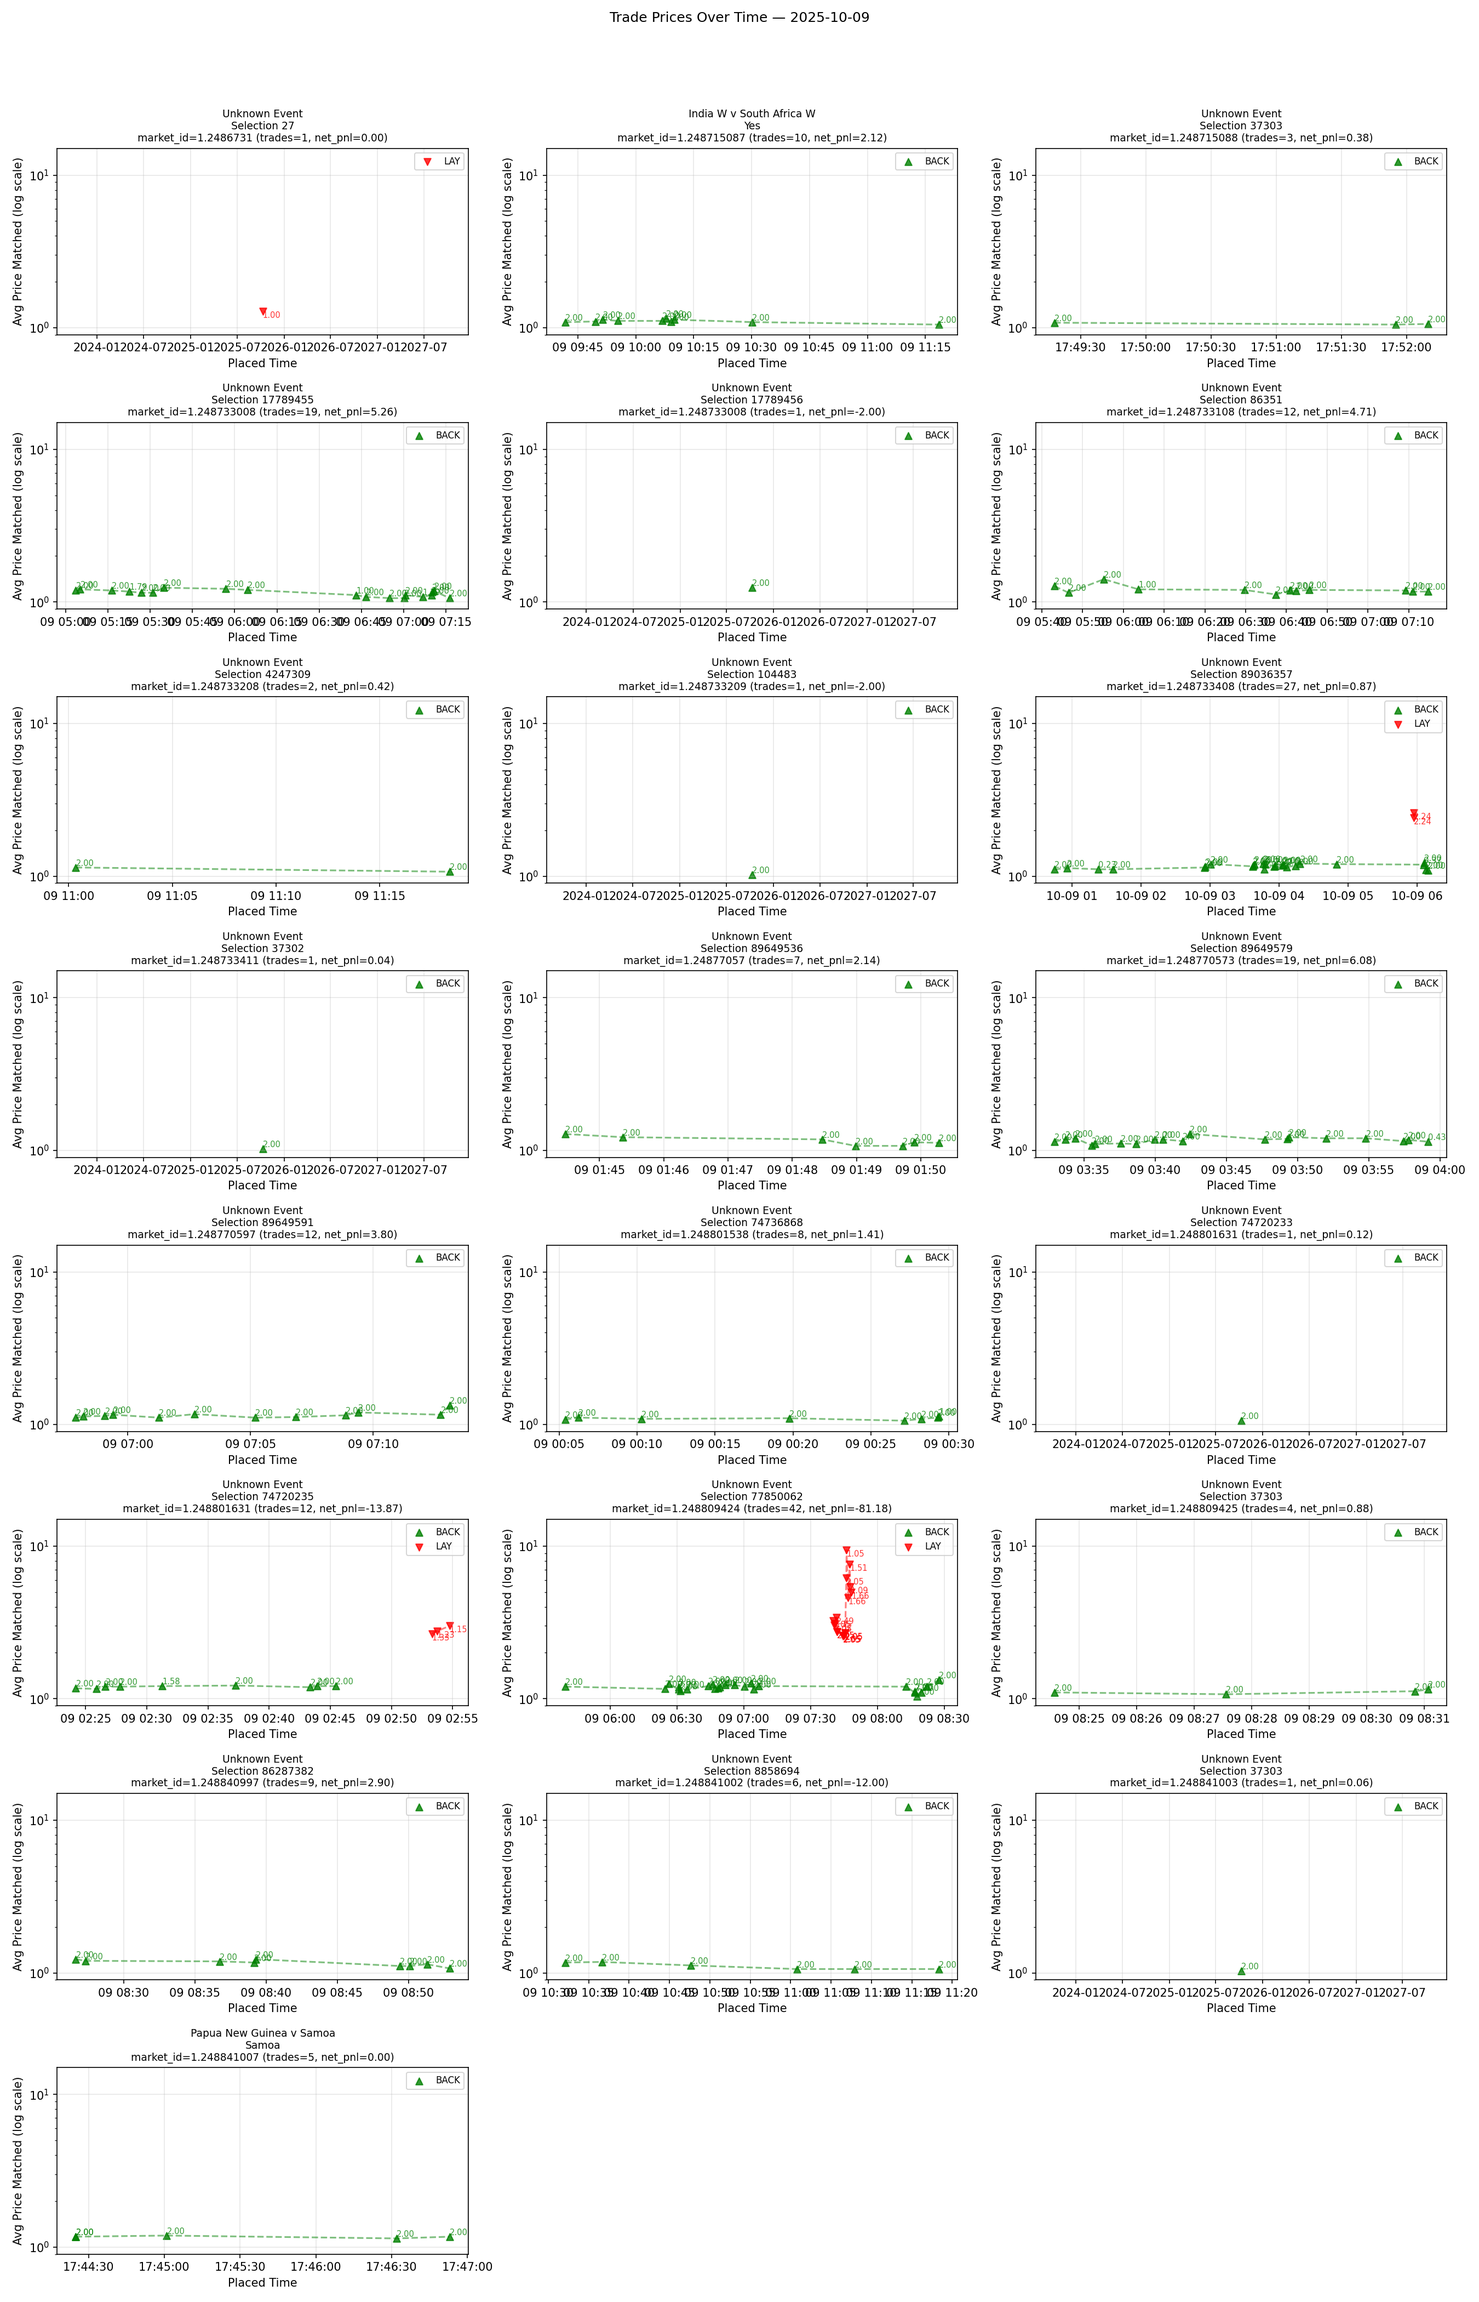
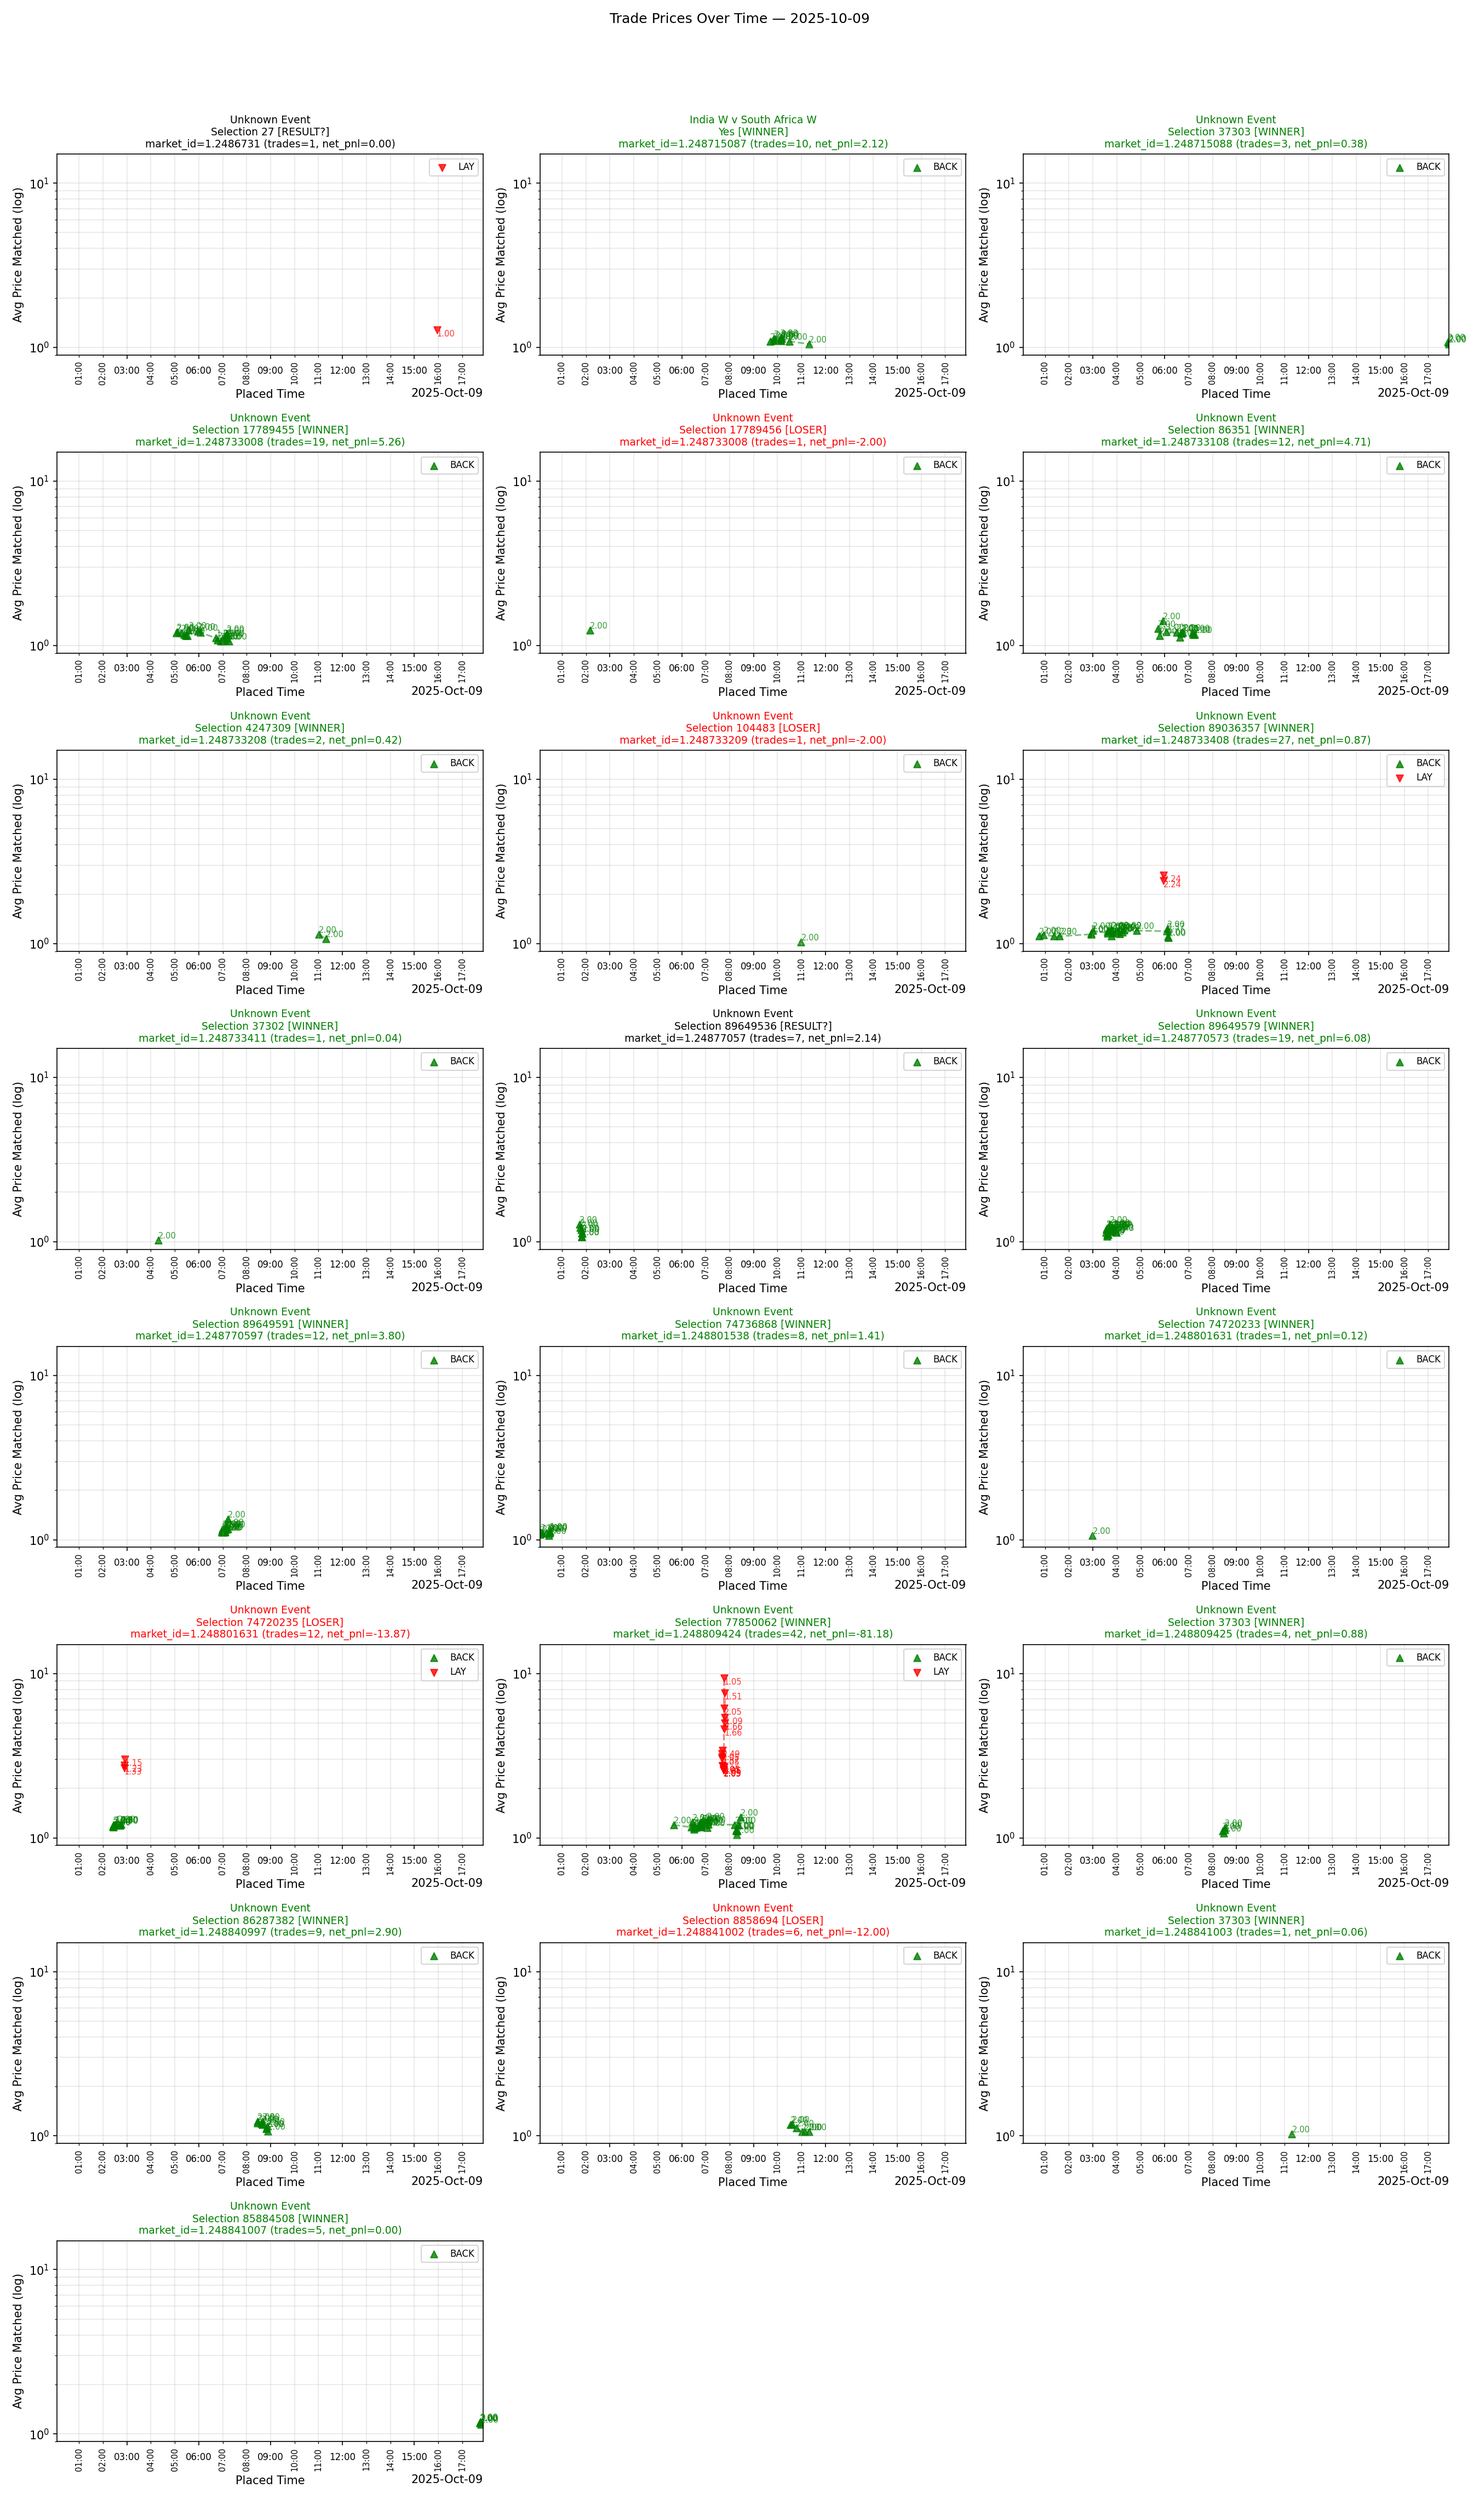
add

diff --git a/jobs/eod_gen_trade_charts.py b/jobs/eod_gen_trade_charts.py
@@ -1,8 +1,9 @@
 #!/root/betting/.venv/bin/python
-# plot_trades_grid.py — one big figure per (market_id, selection_id) with size labels
+# plot_trades_grid.py — per (market_id, selection_id) chart with winner badge, log y-axis, fixed limits, smart x-ticks
 import os, json, math
 import pandas as pd
 import matplotlib.pyplot as plt
+import matplotlib.dates as mdates
 from datetime import datetime
 from collections import defaultdict
 
@@ -27,11 +28,22 @@ for col in ("placed_date", "settled_date"):
 df = df.dropna(subset=["placed_date"])
 df = df.sort_values("placed_date")
 
-# ===== ENRICHMENT =====
+if df.empty:
+    raise SystemExit("No trades found to plot (empty dataframe).")
+
+# Determine overall time span (for tick density)
+tmin = df["placed_date"].min()
+tmax = df["placed_date"].max()
+span_seconds = max(1.0, (tmax - tmin).total_seconds())
+span_hours = span_seconds / 3600.0
+span_days = span_seconds / 86400.0
+
+# ===== ENRICHMENT (names) =====
 market_event_name = {}
 market_runner_name = defaultdict(dict)
 
 # From cache
+CACHE_HAD_ERROR = False
 if os.path.isfile(CACHE_JSON):
     try:
         with open(CACHE_JSON, "r") as f:
@@ -40,6 +52,7 @@ if os.path.isfile(CACHE_JSON):
         for mid, selmap in cache.get("market_runner_name", {}).items():
             market_runner_name[mid].update({int(k): v for k, v in selmap.items()})
     except Exception as e:
+        CACHE_HAD_ERROR = True
         print(f"⚠ Cache read error: {e}")
 
 # From local CSVs
@@ -60,6 +73,20 @@ for p in CATALOGUE_CSV_CANDIDATES:
     if os.path.isfile(p):
         try_load_catalogue_csv(p)
 
+# ===== ENRICHMENT (winners) =====
+market_winners = defaultdict(set)  # market_id -> set(selection_id)
+
+# From CSV (optional)
+if "is_winner" in df.columns or "result" in df.columns:
+    for (mid, sid), g in df.groupby(["market_id", "selection_id"]):
+        is_win = False
+        if "is_winner" in g.columns:
+            is_win = bool(g["is_winner"].astype(bool).max())
+        elif "result" in g.columns:
+            is_win = any(str(x).upper() == "WINNER" for x in g["result"].dropna().unique())
+        if is_win:
+            market_winners[str(mid)].add(int(sid))
+
 # From Betfair API if needed
 def api_enrich_missing(market_to_selids):
     try:
@@ -75,6 +102,7 @@ def api_enrich_missing(market_to_selids):
         )
         trading.login()
 
+        # Names
         missing_markets = [
             mid for mid in market_to_selids
             if mid not in market_event_name
@@ -98,21 +126,36 @@ def api_enrich_missing(market_to_selids):
             except Exception as e:
                 print(f"⚠ Enrich failed for {mid}: {e}")
 
+        # Winners if unknown
+        unknown_winners = [mid for mid in market_to_selids if not market_winners.get(mid)]
+        if unknown_winners:
+            books = trading.betting.list_market_book(market_ids=unknown_winners)
+            for bk in books or []:
+                mid = str(bk.market_id)
+                try:
+                    for rb in getattr(bk, "runners", []) or []:
+                        if str(getattr(rb, "status", "")).upper() == "WINNER":
+                            market_winners[mid].add(int(rb.selection_id))
+                except Exception:
+                    pass
+
         trading.logout()
     except Exception as e:
-        print(f"ℹ Skipping Betfair API enrichment: {e}")
+        print(f"ℹ Skipping Betfair API enrichment (winners/names): {e}")
 
 market_to_selids = defaultdict(set)
 for mid, sid in df.groupby(["market_id", "selection_id"]).groups.keys():
     market_to_selids[str(mid)].add(int(sid))
 
-needs_api = any(
-    mid not in market_event_name or sid not in market_runner_name[mid]
-    for (mid, sid) in df.groupby(["market_id", "selection_id"]).groups.keys()
+needs_api = (
+    any(mid not in market_event_name or sid not in market_runner_name[mid]
+        for (mid, sid) in df.groupby(["market_id", "selection_id"]).groups.keys())
+    or any(not market_winners.get(str(mid)) for mid, _ in df.groupby(["market_id", "selection_id"]).groups.keys())
 )
 if needs_api:
     api_enrich_missing(market_to_selids)
 
+# Write cache (names only)
 try:
     os.makedirs(os.path.dirname(CACHE_JSON), exist_ok=True)
     with open(CACHE_JSON, "w") as f:
@@ -135,51 +178,88 @@ if n == 0:
 
 ncols = 3 if n >= 9 else (2 if n >= 4 else 1)
 nrows = math.ceil(n / ncols)
-fig, axes = plt.subplots(nrows=nrows, ncols=ncols, figsize=(6*ncols, 3.5*nrows), squeeze=False)
+fig, axes = plt.subplots(nrows=nrows, ncols=ncols, figsize=(6*ncols, 3.8*nrows), squeeze=False)
 axes = axes.flatten()
 
 fig.suptitle(f"Trade Prices Over Time — {TODAY}", y=0.995)
 
+# Prepare date locator/formatter once (consistent across all subplots)
+major_locator = mdates.AutoDateLocator(minticks=4, maxticks=8)
+major_formatter = mdates.ConciseDateFormatter(major_locator)
+
+# Decide if we’ll draw minor hour ticks, and at what interval
+minor_hour_interval = None
+if span_hours <= 900:  # avoid exploding to >1000 ticks
+    # Aim for <= ~200 minor ticks across the figure
+    target_minor_ticks = 200
+    minor_hour_interval = max(1, int(math.ceil(span_hours / target_minor_ticks)))
+
 for idx, ((mid, sid), g) in enumerate(groups):
     ax = axes[idx]
     backs = g[g["side"].str.upper() == "BACK"]
-    lays = g[g["side"].str.upper() == "LAY"]
+    lays  = g[g["side"].str.upper() == "LAY"]
 
+    # Plot trades
     if not backs.empty:
         ax.scatter(backs["placed_date"], backs["avg_price_matched"], marker="^", color="green", alpha=0.8, label="BACK")
         ax.plot(backs["placed_date"], backs["avg_price_matched"], color="green", linestyle="--", alpha=0.5)
-        # Add size labels
         for _, r in backs.iterrows():
-            ax.text(
-                r["placed_date"], r["avg_price_matched"],
-                f"{r['size_matched']:.2f}",
-                fontsize=7, color="green", alpha=0.8,
-                ha="left", va="bottom"
-            )
+            ax.text(r["placed_date"], r["avg_price_matched"], f"{r['size_matched']:.2f}",
+                    fontsize=7, color="green", alpha=0.8, ha="left", va="bottom")
 
     if not lays.empty:
         ax.scatter(lays["placed_date"], lays["avg_price_matched"], marker="v", color="red", alpha=0.8, label="LAY")
         ax.plot(lays["placed_date"], lays["avg_price_matched"], color="red", linestyle="--", alpha=0.5)
         for _, r in lays.iterrows():
-            ax.text(
-                r["placed_date"], r["avg_price_matched"],
-                f"{r['size_matched']:.2f}",
-                fontsize=7, color="red", alpha=0.8,
-                ha="left", va="top"
-            )
+            ax.text(r["placed_date"], r["avg_price_matched"], f"{r['size_matched']:.2f}",
+                    fontsize=7, color="red", alpha=0.8, ha="left", va="top")
 
+    # Labels / title
     total_net = g["net_pnl"].sum() if "net_pnl" in g.columns else float("nan")
     trades_ct = len(g)
     mid_s, sid_i = str(mid), int(sid)
     event_nm  = market_event_name.get(mid_s, "Unknown Event")
     runner_nm = market_runner_name.get(mid_s, {}).get(sid_i, f"Selection {sid_i}")
 
-    ax.set_title(f"{event_nm}\n{runner_nm} (trades={trades_ct}, net_pnl={total_net:.2f})", fontsize=9)
+    # Winner badge + color (only set color when result is known)
+    is_winner = sid_i in market_winners.get(mid_s, set())
+    know_result = bool(market_winners.get(mid_s))
+    badge = "[WINNER]" if is_winner else ("[LOSER]" if know_result else "[RESULT?]")
+    title_kwargs = {}
+    if know_result:
+        title_kwargs["color"] = "green" if is_winner else "red"
+
+    # Standardised log scale and fixed limits
+    ax.set_yscale("log")
+    ax.set_ylim(0.9, 15)
+    ax.set_ylabel("Avg Price Matched (log)")
     ax.set_xlabel("Placed Time")
-    ax.set_ylabel("Avg Price Matched")
-    ax.grid(True, alpha=0.3)
+
+    # X-axis formatting — shared major locator/formatter
+    ax.xaxis.set_major_locator(major_locator)
+    ax.xaxis.set_major_formatter(major_formatter)
+
+    # Minor hour ticks only if interval decided (span small enough)
+    if minor_hour_interval is not None:
+        ax.xaxis.set_minor_locator(mdates.HourLocator(interval=minor_hour_interval))
+        # Label minor ticks as HH:MM, but keep them small
+        ax.xaxis.set_minor_formatter(mdates.DateFormatter("%H:%M"))
+        ax.tick_params(axis="x", which="minor", labelsize=7, rotation=90)
+    # Major tick styling
+    ax.tick_params(axis="x", which="major", labelsize=8, pad=6)
+
+    # Restrict x-limits to data range (helps suppress unnecessary ticks)
+    ax.set_xlim(tmin, tmax)
+
+    ax.grid(True, alpha=0.3, which="both")
+
+    ax.set_title(
+        f"{event_nm}\n{runner_nm} {badge}\nmarket_id={mid_s} (trades={trades_ct}, net_pnl={total_net:.2f})",
+        fontsize=9, **title_kwargs
+    )
     ax.legend(loc="best", fontsize=8)
 
+# Hide unused subplots if any
 for j in range(idx + 1, len(axes)):
     axes[j].set_visible(False)
 
